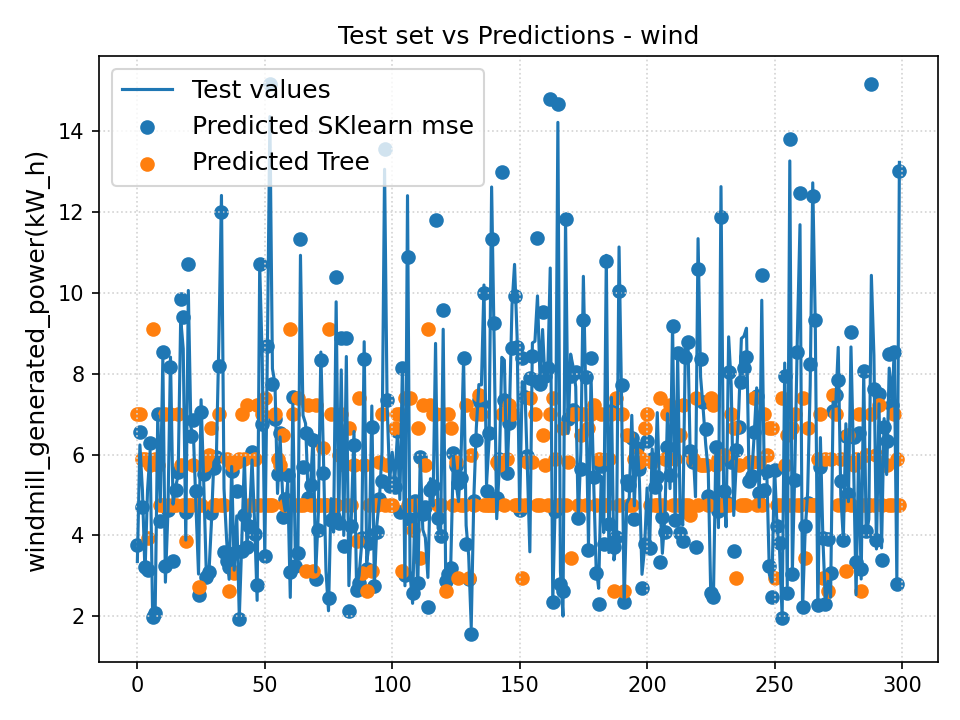
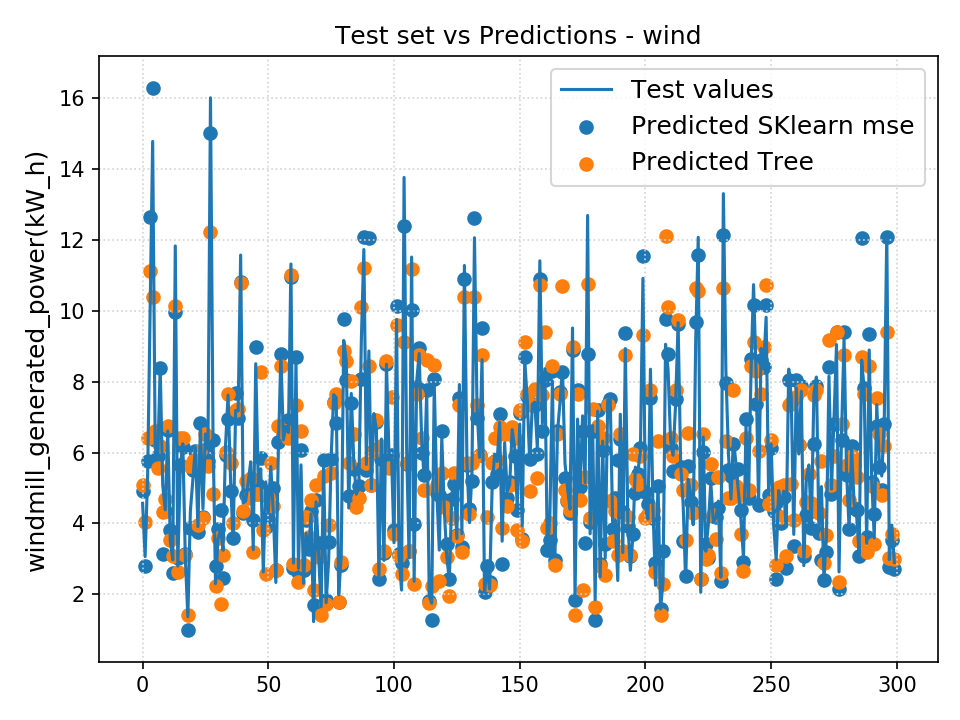
Removed Root class, saving of split attribute and predictions call. Added processing of math data

diff --git a/ex_2/modelTree.py b/ex_2/modelTree.py
@@ -13,11 +13,11 @@ import numpy as np
 #given the values that it computes cof and number of rows it will decide if split again and generate new nodes or became
 #a leaf
 class Node:
-    def __init__(self,dataset,attribute,value,target):
+    def __init__(self,dataset,target):
         self.dataset=dataset
-        self.attribute=attribute
-        self.value=value
         self.target=target
+        self.attribute=""
+        self.value=0
         self.avg = util.getAvg(dataset, target)
         self.standardDeviation=util.standardDeviation(dataset,target)
         self.childList = {}
@@ -28,7 +28,7 @@ class Node:
 
         # check if train test split would actually result in usable data sets (if not set loss to minimal and return)
         if 0.3*dataset.shape[0] < 1:
-            self.loss = 0
+            self.loss = util.loss(np.array(self.dataset[self.target]), np.repeat([self.avg], self.dataset[self.target].shape[0]))
             #print("Endnode average: ", self.avg)
             #print("Endnode data point values: ", self.dataset[target])
         else:
@@ -40,12 +40,15 @@ class Node:
 
     def split(self):
         if (self.numberOfRows<20 or self.cof< 0.1):
+            self.loss = util.loss(np.array(self.dataset[self.target]), np.repeat([self.avg], self.dataset[self.target].shape[0]))
             return
         else:
             splitAttribute = util.getSplitAttribute(self.dataset, self.target)
+            self.attribute = splitAttribute
             valueAverage = sum(self.dataset[splitAttribute]) / self.numberOfRows
-            left = Node(self.dataset.loc[self.dataset[splitAttribute] < valueAverage], splitAttribute, valueAverage, self.target)
-            right = Node(self.dataset.loc[self.dataset[splitAttribute] >= valueAverage], splitAttribute, valueAverage, self.target)
+            self.value = valueAverage
+            left = Node(self.dataset.loc[self.dataset[splitAttribute] < valueAverage], self.target)
+            right = Node(self.dataset.loc[self.dataset[splitAttribute] >= valueAverage], self.target)
             # build up the subtree error (depth first approach of the tree build makes left.loss and right.loss already contain the errors of deeper levels)
             lossSplit = (left.numberOfRows * left.loss + right.numberOfRows * right.loss) / self.numberOfRows
             self.childList["left"] = left
@@ -64,44 +67,43 @@ class Node:
             print("END")
 
 
-class Root:
-    def __init__(self,dataset,target):
-        self.dataset=dataset
-        self.target=target
-        self.target = target
-        self.avg = util.getAvg(dataset, target)
-        self.standardDeviation = util.standardDeviation(dataset, target)
-        self.childList = {}
-        self.cof = self.standardDeviation / self.avg
-        self.numberOfRows = dataset.shape[0]
-        # creating the model and computing the loss of the node
-        self.model = util.getLinearClassifier()
-        X_train, X_test, y_train, y_test = train_test_split(dataset,dataset[target], test_size=0.3, shuffle=True)
-        util.fitLinearRegressor(X_train, y_train, self.model)
-        self.prediction = util.predict(self.model, X_test)
-        self.loss = util.loss(y_test, self.prediction)
-        self.split()
-
-    def split(self):
-        if (self.numberOfRows < 20 or self.cof < 0.1):
-            return
-        else:
-           splitAttribute = util.getSplitAttribute(self.dataset, self.target)
-           valueAverage = sum(self.dataset[splitAttribute]) / self.numberOfRows
-
-
-           left = Node(self.dataset.loc[self.dataset[splitAttribute] < valueAverage], splitAttribute, valueAverage, self.target)
-           right = Node(self.dataset.loc[self.dataset[splitAttribute] >= valueAverage], splitAttribute, valueAverage, self.target)
-            # build up the subtree error (depth first approach of the tree build makes left.loss and right.loss already contain the errors of deeper levels)
-           lossSplit = (left.numberOfRows * left.loss + right.numberOfRows*right.loss) / self.numberOfRows
-           self.childList["left"] = left
-           self.childList["right"] = right
-           '''
-           if (lossSplit >= self.loss):
-               self.childList = {}
-           else:
-               self.loss = lossSplit
-            '''
+# class Root:
+#     def __init__(self,dataset,target):
+#         self.dataset=dataset
+#         self.target=target
+#         self.avg = util.getAvg(dataset, target)
+#         self.standardDeviation = util.standardDeviation(dataset, target)
+#         self.childList = {}
+#         self.cof = self.standardDeviation / self.avg
+#         self.numberOfRows = dataset.shape[0]
+#         # creating the model and computing the loss of the node
+#         self.model = util.getLinearClassifier()
+#         X_train, X_test, y_train, y_test = train_test_split(dataset,dataset[target], test_size=0.3, shuffle=True)
+#         util.fitLinearRegressor(X_train, y_train, self.model)
+#         self.prediction = util.predict(self.model, X_test)
+#         self.loss = util.loss(y_test, self.prediction)
+#         self.split()
+#
+#     def split(self):
+#         if (self.numberOfRows < 20 or self.cof < 0.1):
+#             return
+#         else:
+#            splitAttribute = util.getSplitAttribute(self.dataset, self.target)
+#            self.attribute = splitAttribute
+#            valueAverage = sum(self.dataset[splitAttribute]) / self.numberOfRows
+#            self.value = valueAverage
+#            left = Node(self.dataset.loc[self.dataset[splitAttribute] < valueAverage], self.target)
+#            right = Node(self.dataset.loc[self.dataset[splitAttribute] >= valueAverage], self.target)
+#             # build up the subtree error (depth first approach of the tree build makes left.loss and right.loss already contain the errors of deeper levels)
+#            lossSplit = (left.numberOfRows * left.loss + right.numberOfRows*right.loss) / self.numberOfRows
+#            self.childList["left"] = left
+#            self.childList["right"] = right
+#            '''
+#            if (lossSplit >= self.loss):
+#                self.childList = {}
+#            else:
+#                self.loss = lossSplit
+#             '''
 
     def print(self):
 

diff --git a/ex_2/regressionTree.py b/ex_2/regressionTree.py
@@ -14,11 +14,11 @@ from utilities import regressionErrors
 #a leaf
 
 class Node:
-    def __init__(self,dataset,attribute,value,target):
+    def __init__(self,dataset,target):
         self.dataset=dataset
-        self.attribute=attribute
-        self.value=value
         self.target=target
+        self.attribute=""
+        self.value=0
         self.avg=util.getAvg(dataset,target)
         self.standardDeviation=util.standardDeviation(dataset,target)
         self.childList={}
@@ -31,9 +31,11 @@ class Node:
             return
         else:
             splitAttribute=util.getSplitAttribute(self.dataset,self.target)
+            self.attribute = splitAttribute
             valueAverage=sum(self.dataset[splitAttribute])/self.numberOfRows
-            left = Node(self.dataset.loc[self.dataset[splitAttribute]<valueAverage],splitAttribute,valueAverage,self.target)
-            right = Node(self.dataset.loc[self.dataset[splitAttribute]>=valueAverage],splitAttribute,valueAverage,self.target)
+            self.value = valueAverage
+            left = Node(self.dataset.loc[self.dataset[splitAttribute]<valueAverage],self.target)
+            right = Node(self.dataset.loc[self.dataset[splitAttribute]>=valueAverage],self.target)
             '''
             dictionary=util.getAttributesValues(self.dataset)
             values=dictionary.get(splitAttribute)
@@ -52,38 +54,38 @@ class Node:
             print("END")
 
 
-class Root:
-    def __init__(self,dataset,target):
-        self.dataset=dataset
-        self.target=target
-        self.avg=util.getAvg(dataset,target)
-        self.standardDeviation=util.standardDeviation(dataset,target)
-        self.childList={}
-        self.cof=self.standardDeviation/self.avg
-        self.numberOfRows=dataset.shape[0]
-        self.split()
-
-    def split(self):
-        if (self.numberOfRows < 20 or self.cof < 0.1):
-            return
-        else:
-            splitAttribute = util.getSplitAttribute(self.dataset, self.target)
-            valueAverage = sum(self.dataset[splitAttribute]) / self.numberOfRows
-            left = Node(self.dataset.loc[self.dataset[splitAttribute] < valueAverage], splitAttribute, valueAverage, self.target)
-            right = Node(self.dataset.loc[self.dataset[splitAttribute] >= valueAverage], splitAttribute, valueAverage, self.target)
-
-            '''
-            dictionary=util.getAttributesValues(self.dataset)
-            values=dictionary.get(splitAttribute)
-            for value in values:
-                self.childList.append(Node(util.getValues(self.dataset,splitAttribute,value),splitAttribute,value,self.target))
-            '''
-            self.childList["left"] = left
-            self.childList["right"] = right
-
-    def print(self):
-        for child in self.childList:
-            self.childList[child].print()
+# class Root:
+#     def __init__(self,dataset,target):
+#         self.dataset=dataset
+#         self.target=target
+#         self.avg=util.getAvg(dataset,target)
+#         self.standardDeviation=util.standardDeviation(dataset,target)
+#         self.childList={}
+#         self.cof=self.standardDeviation/self.avg
+#         self.numberOfRows=dataset.shape[0]
+#         self.split()
+#
+#     def split(self):
+#         if (self.numberOfRows < 20 or self.cof < 0.1):
+#             return
+#         else:
+#             splitAttribute = util.getSplitAttribute(self.dataset, self.target)
+#             valueAverage = sum(self.dataset[splitAttribute]) / self.numberOfRows
+#             left = Node(self.dataset.loc[self.dataset[splitAttribute] < valueAverage], self.target)
+#             right = Node(self.dataset.loc[self.dataset[splitAttribute] >= valueAverage], self.target)
+#
+#             '''
+#             dictionary=util.getAttributesValues(self.dataset)
+#             values=dictionary.get(splitAttribute)
+#             for value in values:
+#                 self.childList.append(Node(util.getValues(self.dataset,splitAttribute,value),splitAttribute,value,self.target))
+#             '''
+#             self.childList["left"] = left
+#             self.childList["right"] = right
+#
+#     def print(self):
+#         for child in self.childList:
+#             self.childList[child].print()
 
 
 

diff --git a/ex_2/classifier.py b/ex_2/classifier.py
@@ -54,40 +54,30 @@ def train(dataset,target):
 #the current node is a leaf so we assign the value
 def assignValue(row,node,assigned,target):
 
+    # if it is the end node, return its avgerage
+    if (len(node.childList) == 0):
+        return node.avg
     #given a node I check if i'm in the right branch in this case I go deep
     for attribute in row.index:
         if attribute == node.attribute:
-            if (len(node.childList) == 0):
-                return node.avg
+            if row[attribute] < node.value:
+                assigned = assignValue(row, node.childList["left"], assigned, target)
             else:
-                if row[attribute] < node.value:
-                    assigned = assignValue(row, node.childList["left"], assigned, target)
-                else:
-                    assigned = assignValue(row, node.childList["right"], assigned, target)
-        if assigned != -1 and assigned != None:
+                assigned = assignValue(row, node.childList["right"], assigned, target)
+        if assigned != -1:
             return assigned
 
 
 
 #for each row in the testset the method calls assignValue
 def test(testSet,target,treeHead):
-    assigned=-1
     results=[]
     for i in testSet.index:
+        assigned=-1
         row=testSet.loc[i]
         # print("length: ", len(treeHead.childList))
-        for nodeKey in treeHead.childList:
-            node = treeHead.childList[nodeKey]
-            if(assigned == -1):
-                assigned=assignValue(row,node,assigned,target)
-                if assigned == None:
-                    assigned=node.avg
-                elif assigned != -1:
-                    results.append(assigned)
-                    assigned=-1
-                    break
-            else:
-                assigned=-1
+        assigned=assignValue(row,treeHead,assigned,target)
+        results.append(assigned)
     return results
 
 """ to remove
@@ -164,7 +154,7 @@ data = {'math': {'path': 'data/student-mat.csv',
 
 """ Folds for cross-validation """
 folds = 5
-datasets = ['wind','life']
+datasets = ['wind']
 
 
 
@@ -189,8 +179,8 @@ if __name__ == '__main__':
 
                 print('*** Calculating Fold: ', i )
                 print(' - training ')
-                root = train(trainList[i], target)
-                modelTreeRoot=modelTree.Root(trainList[i],target)
+                root = tree.Node(trainList[i],target)
+                modelTreeRoot = modelTree.Node(trainList[i],target)
 
 
 
@@ -199,9 +189,9 @@ if __name__ == '__main__':
 
                 print(' - testing')
                 y_pred = test(testSet, target, root)
-                #print("hihihihihihihi")
+                # print("hihihihihihihi")
                 y_pred_ModelTree=test(testSet, target, modelTreeRoot)
-                #print("hihihihihihihi2")
+                # print("hihihihihihihi2")
 
                 y_pred_tree.extend(y_pred)
                 y_pred_model.extend(y_pred_ModelTree)

diff --git a/ex_2/clean_analyze_data.py b/ex_2/clean_analyze_data.py
@@ -51,6 +51,33 @@ def histo(name='', column='' , df = '' ):
     plt.close()
 
 
+# perform cleaning on the "math" data set
+# One-Hot encoding of multi-categorical-columns
+# Replacing yes/no with 1/0
+def mathCleaning(df):
+    # replace "yes" with 1 and "no" with 0
+    df = df.replace(["yes", "no"], [1, 0])
+
+    # replace sex "F" with 1 and "M" with 0
+    df["sex"] = df["sex"].replace(["F", "M"], [1, 0])
+
+    # replace Pstatus "A" with 1 and "T" with 0
+    df["Pstatus"] = df["Pstatus"].replace(["A", "T"], [1, 0])
+
+    # replace famsize "GT3" with 1 and "LT3" with 0
+    df["famsize"] = df["famsize"].replace(["GT3", "LT3"], [1, 0])
+
+    # replace address "U" with 1 and "R" with 0
+    df["address"] = df["address"].replace(["U", "R"], [1, 0])
+
+    # replace school "GP" with 1 and "MS" with 0
+    df["school"] = df["school"].replace(["GP", "MS"], [1, 0])
+
+    # perform one-hot-encoding for the rest
+    df = pd.get_dummies(df)
+
+    return df
+
 
 """ Main modules to clean the df before training """
 
@@ -68,6 +95,12 @@ def load_clean_data(name):
 
     # Clean values from nans
     df = df.dropna()
+
+    # for the "math" data set apply special changes
+    if name == "math":
+        df = mathCleaning(df)
+
+    print(df.head())
 
     # Shuffling data
     df = df.sample(frac=1)
@@ -88,7 +121,7 @@ def load_clean_data(name):
 
 
 """
-# to fix, later 
+# to fix, later
 for n,p in zip(ds_names, ds_path):
     df = pd.read_csv(p)
     df = clean(n,df)
@@ -98,5 +131,3 @@ for n,p in zip(ds_names, ds_path):
             continue
         dummy = histo(name=n, column= c , df = df )
 """
-
-
